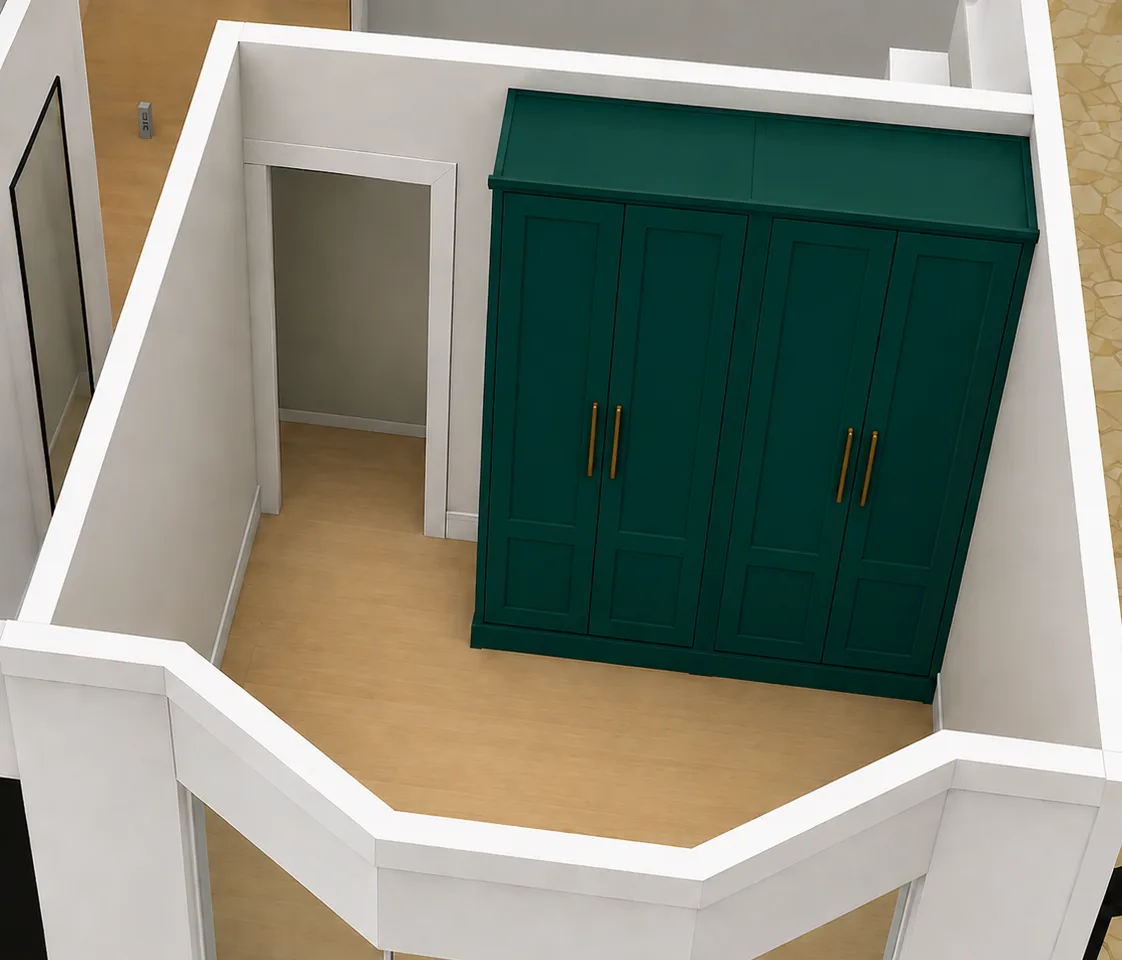
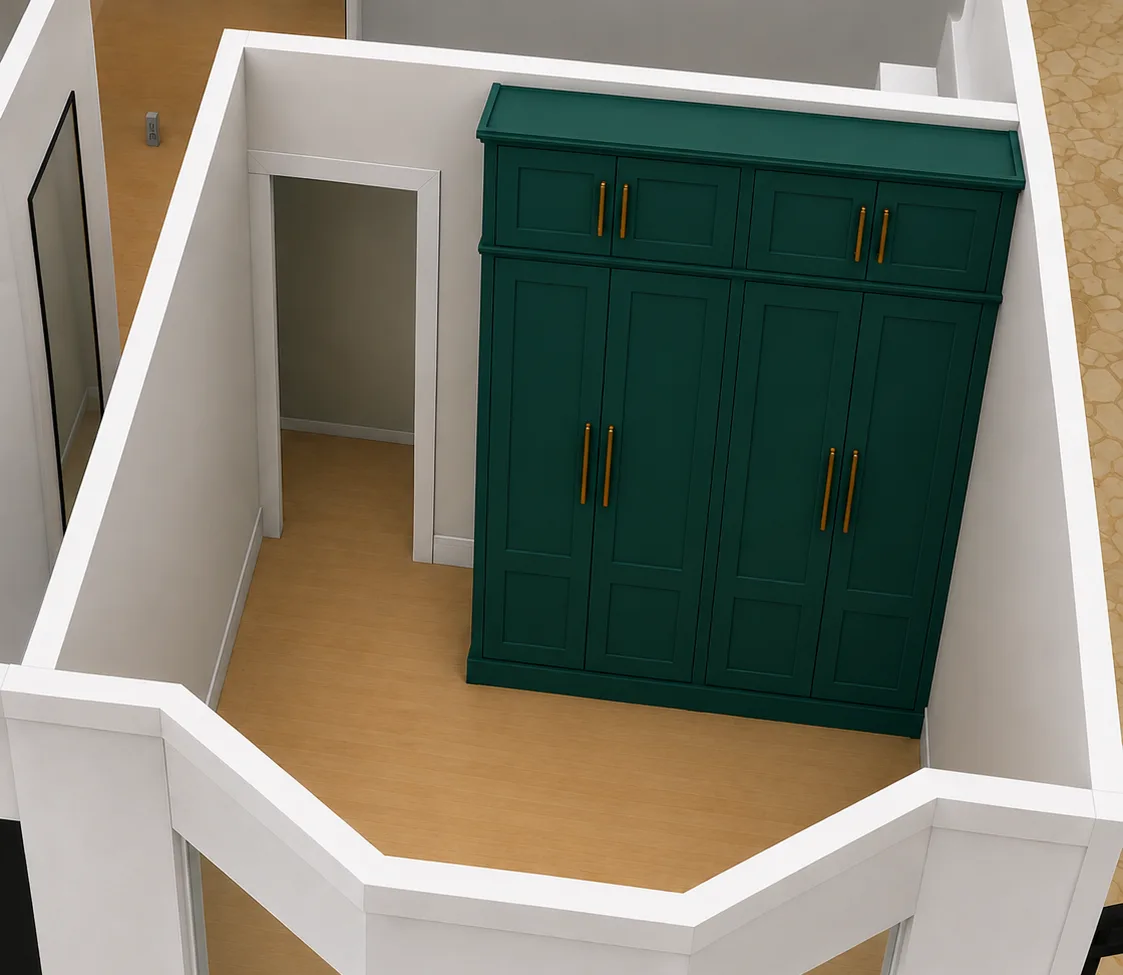
Publish site from source repo

diff --git a/home/jobs/2026/07/29/build-fitted-wardrobes-in-two-bedrooms/index.html b/home/jobs/2026/07/29/build-fitted-wardrobes-in-two-bedrooms/index.html
@@ -1,4 +1,4 @@
-<!DOCTYPE html><html lang="en"> <head><meta charset="utf-8"><link rel="icon" type="image/svg+xml" href="/favicon.svg"><link rel="icon" type="image/png" sizes="96x96" href="/favicon-96x96.png"><link rel="icon" href="/favicon.ico"><link rel="apple-touch-icon" sizes="180x180" href="/apple-touch-icon.png"><link rel="manifest" href="/site.webmanifest"><meta name="viewport" content="width=device-width, initial-scale=1"><meta name="generator" content="Astro v6.1.5"><meta name="description" content="Make and install two internally lit fitted wardrobes with matt solid-colour shaker doors, one on the ground floor and one on the first floor, to the schematics."><meta name="author" content="Rahul Goma Phulore"><meta name="robots" content="noindex,nofollow"><meta name="theme-color" content="#fdf6e3"><link rel="canonical" href="https://rahul.london/home/jobs/2026/07/29/build-fitted-wardrobes-in-two-bedrooms/"><link rel="alternate" type="application/rss+xml" title="rahul.london RSS" href="https://rahul.london/rss.xml"><meta property="og:site_name" content="rahul.london"><meta property="og:locale" content="en_GB"><meta property="og:type" content="website"><meta property="og:title" content="Build fitted wardrobes in two bedrooms — Home jobs"><meta property="og:description" content="Make and install two internally lit fitted wardrobes with matt solid-colour shaker doors, one on the ground floor and one on the first floor, to the schematics."><meta property="og:url" content="https://rahul.london/home/jobs/2026/07/29/build-fitted-wardrobes-in-two-bedrooms/"><meta name="twitter:card" content="summary"><meta name="twitter:title" content="Build fitted wardrobes in two bedrooms — Home jobs"><meta name="twitter:description" content="Make and install two internally lit fitted wardrobes with matt solid-colour shaker doors, one on the ground floor and one on the first floor, to the schematics."><meta name="twitter:creator" content="@missingfaktor"><link rel="preconnect" href="https://fonts.googleapis.com"><link rel="preconnect" href="https://fonts.gstatic.com" crossorigin><link rel="stylesheet" href="https://fonts.googleapis.com/css2?family=Spline+Sans:wght@400;500;600;700&display=swap"><title>Build fitted wardrobes in two bedrooms — Home jobs</title><!-- Apply saved theme before first paint to avoid flash --><script>
+<!DOCTYPE html><html lang="en"> <head><meta charset="utf-8"><link rel="icon" type="image/svg+xml" href="/favicon.svg"><link rel="icon" type="image/png" sizes="96x96" href="/favicon-96x96.png"><link rel="icon" href="/favicon.ico"><link rel="apple-touch-icon" sizes="180x180" href="/apple-touch-icon.png"><link rel="manifest" href="/site.webmanifest"><meta name="viewport" content="width=device-width, initial-scale=1"><meta name="generator" content="Astro v6.1.5"><meta name="description" content="Make and install two internally lit fitted wardrobes with matt spray-painted shaker doors, one on the ground floor with a separate run of top boxes and one on the first floor, to the schematics."><meta name="author" content="Rahul Goma Phulore"><meta name="robots" content="noindex,nofollow"><meta name="theme-color" content="#fdf6e3"><link rel="canonical" href="https://rahul.london/home/jobs/2026/07/29/build-fitted-wardrobes-in-two-bedrooms/"><link rel="alternate" type="application/rss+xml" title="rahul.london RSS" href="https://rahul.london/rss.xml"><meta property="og:site_name" content="rahul.london"><meta property="og:locale" content="en_GB"><meta property="og:type" content="website"><meta property="og:title" content="Build fitted wardrobes in two bedrooms — Home jobs"><meta property="og:description" content="Make and install two internally lit fitted wardrobes with matt spray-painted shaker doors, one on the ground floor with a separate run of top boxes and one on the first floor, to the schematics."><meta property="og:url" content="https://rahul.london/home/jobs/2026/07/29/build-fitted-wardrobes-in-two-bedrooms/"><meta name="twitter:card" content="summary"><meta name="twitter:title" content="Build fitted wardrobes in two bedrooms — Home jobs"><meta name="twitter:description" content="Make and install two internally lit fitted wardrobes with matt spray-painted shaker doors, one on the ground floor with a separate run of top boxes and one on the first floor, to the schematics."><meta name="twitter:creator" content="@missingfaktor"><link rel="preconnect" href="https://fonts.googleapis.com"><link rel="preconnect" href="https://fonts.gstatic.com" crossorigin><link rel="stylesheet" href="https://fonts.googleapis.com/css2?family=Spline+Sans:wght@400;500;600;700&display=swap"><title>Build fitted wardrobes in two bedrooms — Home jobs</title><!-- Apply saved theme before first paint to avoid flash --><script>
       (function () {
         var cookieMatch = document.cookie.match(/(?:^|; )theme=([^;]+)/);
         var stored =
@@ -15,7 +15,7 @@ Home jobs
 All jobs
 </a> </nav> </header>  <a class="job-back" href="/home/jobs/">← All jobs</a> <article class="job-detail"> <header class="job-detail__header"> <div class="job-detail__eyebrow"> <span class="job-status job-status--open"> <span class="job-status__dot" aria-hidden="true"></span> Open </span> <span class="job-priority job-priority--medium"> Medium priority
 </span> </div> <h1>Build fitted wardrobes in two bedrooms</h1> <p class="job-detail__posted">
-Posted on <time datetime="2026-07-29"> 29 July 2026 </time> </p> </header> <div class="job-description"> <p>Two fitted wardrobes, on the walls shown in the model views. The schematics are the reference for carcass sizes, bay widths and internal layout.</p><div class="job-carousel" data-job-carousel aria-label="Model views of both wardrobes"> <div class="job-carousel__viewport" id="build-fitted-wardrobes-in-two-bedrooms-photos-2" tabindex="0"> <div class="job-carousel__track"> <figure class="job-carousel__slide" role="group" aria-roledescription="slide" aria-label="1 of 2"> <a href="/images/home/jobs/build-fitted-wardrobes-in-two-bedrooms/ground-floor-model.webp" target="_blank" rel="noopener"> <img src="/images/home/jobs/build-fitted-wardrobes-in-two-bedrooms/ground-floor-model.webp" alt="Cutaway render of the ground-floor bedroom seen from above. A dark green wardrobe stands against the far wall beside a doorway, with four tall shaker doors in two pairs and the top of a separate upper run visible above them. Each tall door has a tall upper panel over a short lower panel, with slim brass bar handles at the meeting stiles. A bay window occupies the opposite side of the room." loading="lazy"> </a> <figcaption> <span>Ground-floor wardrobe in position, running along the wall beside the doorway with the bay window opposite.</span> <strong>Reference</strong> </figcaption> </figure><figure class="job-carousel__slide" role="group" aria-roledescription="slide" aria-label="2 of 2"> <a href="/images/home/jobs/build-fitted-wardrobes-in-two-bedrooms/first-floor-model.webp" target="_blank" rel="noopener"> <img src="/images/home/jobs/build-fitted-wardrobes-in-two-bedrooms/first-floor-model.webp" alt="Cutaway render of the first-floor second bedroom seen from above. A deep red wardrobe runs the full width of the far wall in three bays, with two tall shaker doors to each bay and the top of a separate upper run visible above them. Each tall door has one unbroken full-height recessed panel. On the right-hand bay that panel is a mirror in both doors." loading="lazy"> </a> <figcaption> <span>First-floor wardrobe in position, three bays wide with the mirrored doors on the third bay.</span> <strong>Reference</strong> </figcaption> </figure> </div> </div>  <p class="job-carousel__count" aria-live="polite"> <span data-carousel-current>1</span> / 2 </p> <div class="job-carousel__controls"> <button type="button" data-carousel-previous aria-controls="build-fitted-wardrobes-in-two-bedrooms-photos-2" aria-label="Previous photo"> <svg viewBox="0 0 24 24" aria-hidden="true"> <path d="m15 18-6-6 6-6"></path> </svg> </button> <button type="button" data-carousel-next aria-controls="build-fitted-wardrobes-in-two-bedrooms-photos-2" aria-label="Next photo"> <svg viewBox="0 0 24 24" aria-hidden="true"> <path d="m9 18 6-6-6-6"></path> </svg> </button> </div>  </div> <script type="module">for(const r of document.querySelectorAll("[data-job-carousel]")){let l=function(){const t=e[0].offsetLeft;o=e.reduce((a,s,L)=>{const y=Math.abs(e[a].offsetLeft-t-n.scrollLeft);return Math.abs(s.offsetLeft-t-n.scrollLeft)<y?L:a},0),u&&(u.textContent=String(o+1)),e.forEach((a,s)=>{s===o?a.setAttribute("aria-current","true"):a.removeAttribute("aria-current")})},c=function(t){const a=(t+e.length)%e.length;n.scrollTo({left:e[a].offsetLeft-e[0].offsetLeft,behavior:"smooth"})};if(r.dataset.carouselReady==="true")continue;r.dataset.carouselReady="true";const n=r.querySelector(".job-carousel__viewport"),e=Array.from(r.querySelectorAll(".job-carousel__slide")),u=r.querySelector("[data-carousel-current]"),i=r.querySelector("[data-carousel-previous]"),d=r.querySelector("[data-carousel-next]");if(!n||e.length<2)continue;let o=0,f=0;n.addEventListener("scroll",()=>{cancelAnimationFrame(f),f=requestAnimationFrame(l)}),n.addEventListener("keydown",t=>{t.key==="ArrowLeft"&&(t.preventDefault(),c(o-1)),t.key==="ArrowRight"&&(t.preventDefault(),c(o+1))}),i?.addEventListener("click",()=>c(o-1)),d?.addEventListener("click",()=>c(o+1)),l()}</script><div class="job-carousel" data-job-carousel aria-label="Internal layout schematics"> <div class="job-carousel__viewport" id="build-fitted-wardrobes-in-two-bedrooms-photos-3" tabindex="0"> <div class="job-carousel__track"> <figure class="job-carousel__slide" role="group" aria-roledescription="slide" aria-label="1 of 2"> <a href="/images/home/jobs/build-fitted-wardrobes-in-two-bedrooms/ground-floor-schematic.webp" target="_blank" rel="noopener"> <img src="/images/home/jobs/build-fitted-wardrobes-in-two-bedrooms/ground-floor-schematic.webp" alt="Elevation schematic of the ground-floor wardrobe, 200 cm wide by 250 cm high by 65 cm deep, split into two equal 100 cm bays. A shelf compartment runs across the top of both bays. Below it the left bay is hanging space the full depth of the run and the right bay is a run of four shelves. Two drawers and then a deep open storage compartment sit at the foot of each bay." loading="lazy"> </a> <figcaption> <span>Ground-floor wardrobe: two equal bays, hanging on the left, shelves on the right, with the deep storage compartment at the very bottom.</span> <strong>Reference</strong> </figcaption> </figure><figure class="job-carousel__slide" role="group" aria-roledescription="slide" aria-label="2 of 2"> <a href="/images/home/jobs/build-fitted-wardrobes-in-two-bedrooms/first-floor-schematic.webp" target="_blank" rel="noopener"> <img src="/images/home/jobs/build-fitted-wardrobes-in-two-bedrooms/first-floor-schematic.webp" alt="Elevation schematic of the first-floor wardrobe, 260 cm wide by 207 cm high by 65 cm deep, split into three equal 86.7 cm bays. The outer two bays have two shelf compartments at the top over a run of four shelves. The middle bay has one shelf compartment over a short hanging rail. All three bays finish with an open storage compartment and then two drawers at the very bottom." loading="lazy"> </a> <figcaption> <span>First-floor wardrobe: three equal bays, short hanging in the middle bay, shelves either side, with the drawers at the very bottom.</span> <strong>Reference</strong> </figcaption> </figure> </div> </div>  <p class="job-carousel__count" aria-live="polite"> <span data-carousel-current>1</span> / 2 </p> <div class="job-carousel__controls"> <button type="button" data-carousel-previous aria-controls="build-fitted-wardrobes-in-two-bedrooms-photos-3" aria-label="Previous photo"> <svg viewBox="0 0 24 24" aria-hidden="true"> <path d="m15 18-6-6 6-6"></path> </svg> </button> <button type="button" data-carousel-next aria-controls="build-fitted-wardrobes-in-two-bedrooms-photos-3" aria-label="Next photo"> <svg viewBox="0 0 24 24" aria-hidden="true"> <path d="m9 18 6-6-6-6"></path> </svg> </button> </div>  </div> <p>Every compartment sits behind doors. <strong>No niche or shelf is open to the room.</strong> Where a schematic says “open storage”, read it as a shelf compartment: the drawing implies a distinction that is not there.</p><div class="job-description__list"> <p>What the schematics do not show:</p> <ul><li>Compartment heights <strong>add up to the external carcass height</strong>. Carcass, shelf, plinth and top-rail thicknesses come <strong>out of</strong> those figures, not on top of them.</li><li>The first-floor bays are <strong>not identical inside</strong>. The middle bay drops the second shelf compartment so its hanging space runs higher. Everything below that lines up across all three.</li></ul> </div><div class="job-description__list"> <p><strong>Both wardrobes are to be lit inside</strong>, with the wiring route planned before the carcasses are built.</p> <ul><li><strong>Warm white LED</strong> strip down <strong>both side panels of every bay</strong>, out of direct view.</li><li><strong>Door-activated switching</strong>, so a bay lights when its door opens.</li><li>Drivers and cabling <strong>concealed in the carcass</strong>. No visible trunking.</li><li>A concealed <strong>fused spur</strong>, not a trailing plug lead.</li></ul> </div><div class="job-description__list"> <p>Materials:</p> <ul><li><strong>MDF for every door and drawer front</strong>, not MFC.</li><li><strong>MFC</strong> for carcasses, shelves and drawer boxes, with <strong>matching ABS edging</strong> on visible edges.</li><li><strong>MDF</strong> also for plinths, back panels and scribe fillets.</li><li><strong>Matt throughout.</strong> No gloss, no woodgrain, no patterned decor.</li><li><strong>Fixed shelves</strong>, built into the carcass. <strong>Nothing adjustable.</strong></li></ul> </div><p>The fronts are <strong>painted and spray-finished</strong> on <strong>22 mm</strong> MDF, hard-wearing enough for daily handling. <strong>No foil or vinyl wrap</strong> — summers here now get hot enough to lift and delaminate it.</p><p>Painted MDF and MFC will not match by being ordered to the same colour name. <strong>Door and carcass samples must be approved side by side</strong> before anything is ordered. End panels, plinth and top rail follow the doors, not the carcass interiors.</p><div class="job-swatches"> <p>One colour per wardrobe, to be settled against a <strong>RAL</strong> or paint-brand reference. Take the colour from these values, not from the renders.</p> <ul> <li> <span class="job-swatches__chip" style="--swatch: #014137" aria-hidden="true"></span> <span class="job-swatches__label"> <strong>Buckingham Green</strong> <span class="job-swatches__hex">#014137</span> <span class="job-swatches__note">Ground-floor wardrobe.</span> </span> </li><li> <span class="job-swatches__chip" style="--swatch: #733635" aria-hidden="true"></span> <span class="job-swatches__label"> <strong>Garnet red</strong> <span class="job-swatches__hex">#733635</span> <span class="job-swatches__note">First-floor wardrobe.</span> </span> </li> </ul> </div><div class="job-description__list"> <p>Style is simple Scandinavian: quiet, solid and unfussy.</p> <ul><li><strong>Shaker doors and drawer fronts throughout</strong>: a plain frame around a recessed flat panel. <strong>No flat slab fronts, no flush trimless detailing.</strong></li><li>The tall doors are panelled differently on each wardrobe. <strong>Ground floor: two panels</strong>, a tall one over a short one. <strong>First floor: one full-height panel, with no cross rail.</strong></li><li><strong>Slim plain handles</strong>, bar or tubular, one finish throughout.</li><li>Hinged doors, <strong>two to a bay</strong>, with separate shorter doors over the upper compartments.</li><li><strong>Soft-close hinges and drawer runners</strong> throughout.</li><li><strong>Soft-push opening on every door and every drawer</strong>, on both wardrobes. Handles are fitted <strong>as well as</strong> the push mechanism, not in place of it.</li><li>Scribed to walls, floor and ceiling. Assume both rooms are out of true.</li></ul> </div><p>On the first-floor wardrobe, <strong>both doors of bay B3</strong> — the right-hand bay as the room sees it — are mirrored: <strong>one unbroken full-height mirror per door</strong>, in place of the flat panel. Safety-backed, held by the shaker frame rather than fixed on afterwards.</p> </div> <section class="job-section job-materials" aria-labelledby="materials-heading"> <h2 id="materials-heading">Materials</h2> <ul> <li><strong>22 mm</strong> MDF for every shaker door and drawer front</li><li>Hard-wearing spray finish in the chosen colour</li><li>MFC panels for the ground-floor carcasses in the nearest <strong>matt Buckingham Green</strong> decor</li><li>MFC panels for the first-floor carcasses in the nearest <strong>matt garnet red</strong> decor</li><li>Matching ABS edging</li><li>MDF for plinths, back panels and scribe fillets</li><li>Hanging rails and end supports</li><li>Soft-close hinges and drawer runners</li><li>Soft-push latches for every door and drawer</li><li>Safety-backed mirror panels, <strong>one full-height panel per door</strong>, for both doors of first-floor bay <strong>B3</strong></li><li>Slim bar handles in a single finish</li><li>Warm white LED strips, drivers and door switches</li> </ul> </section>  </article>  </div>  </main> </div>  <script type="module">const c=document.getElementById("theme-toggle"),t=document.getElementById("theme-icon"),m=`
+Posted on <time datetime="2026-07-29"> 29 July 2026 </time> </p> </header> <div class="job-description"> <p>Two fitted wardrobes, on the walls shown in the model views. The schematics are the reference for carcass sizes, bay widths and internal layout.</p><div class="job-carousel" data-job-carousel aria-label="Model views of both wardrobes"> <div class="job-carousel__viewport" id="build-fitted-wardrobes-in-two-bedrooms-photos-2" tabindex="0"> <div class="job-carousel__track"> <figure class="job-carousel__slide" role="group" aria-roledescription="slide" aria-label="1 of 2"> <a href="/images/home/jobs/build-fitted-wardrobes-in-two-bedrooms/ground-floor-model.webp" target="_blank" rel="noopener"> <img src="/images/home/jobs/build-fitted-wardrobes-in-two-bedrooms/ground-floor-model.webp" alt="Cutaway render of the ground-floor bedroom seen from above. A dark green wardrobe stands against the far wall beside a doorway. Four tall shaker doors in two pairs fill the main run, and a shorter band of four shaker doors sits above them, divided from the run below by a horizontal rail and finished with a projecting top. Each tall door has a tall upper panel over a short lower panel; each short door has a single panel. Slim brass bar handles sit at the meeting stiles throughout. A bay window occupies the opposite side of the room." loading="lazy"> </a> <figcaption> <span>Ground-floor wardrobe in position: a separate run of top boxes with its own doors sits above the main run, along the wall beside the doorway.</span> <strong>Reference</strong> </figcaption> </figure><figure class="job-carousel__slide" role="group" aria-roledescription="slide" aria-label="2 of 2"> <a href="/images/home/jobs/build-fitted-wardrobes-in-two-bedrooms/first-floor-model.webp" target="_blank" rel="noopener"> <img src="/images/home/jobs/build-fitted-wardrobes-in-two-bedrooms/first-floor-model.webp" alt="Cutaway render of the first-floor second bedroom seen from above. A deep red wardrobe runs the full width of the far wall in three bays, with two tall shaker doors to each bay running full height under a projecting top. Each tall door has one unbroken full-height recessed panel. On the right-hand bay that panel is a mirror in both doors." loading="lazy"> </a> <figcaption> <span>First-floor wardrobe in position, three bays wide with the mirrored doors on the third bay.</span> <strong>Reference</strong> </figcaption> </figure> </div> </div>  <p class="job-carousel__count" aria-live="polite"> <span data-carousel-current>1</span> / 2 </p> <div class="job-carousel__controls"> <button type="button" data-carousel-previous aria-controls="build-fitted-wardrobes-in-two-bedrooms-photos-2" aria-label="Previous photo"> <svg viewBox="0 0 24 24" aria-hidden="true"> <path d="m15 18-6-6 6-6"></path> </svg> </button> <button type="button" data-carousel-next aria-controls="build-fitted-wardrobes-in-two-bedrooms-photos-2" aria-label="Next photo"> <svg viewBox="0 0 24 24" aria-hidden="true"> <path d="m9 18 6-6-6-6"></path> </svg> </button> </div>  </div> <script type="module">for(const r of document.querySelectorAll("[data-job-carousel]")){let l=function(){const t=e[0].offsetLeft;o=e.reduce((a,s,L)=>{const y=Math.abs(e[a].offsetLeft-t-n.scrollLeft);return Math.abs(s.offsetLeft-t-n.scrollLeft)<y?L:a},0),u&&(u.textContent=String(o+1)),e.forEach((a,s)=>{s===o?a.setAttribute("aria-current","true"):a.removeAttribute("aria-current")})},c=function(t){const a=(t+e.length)%e.length;n.scrollTo({left:e[a].offsetLeft-e[0].offsetLeft,behavior:"smooth"})};if(r.dataset.carouselReady==="true")continue;r.dataset.carouselReady="true";const n=r.querySelector(".job-carousel__viewport"),e=Array.from(r.querySelectorAll(".job-carousel__slide")),u=r.querySelector("[data-carousel-current]"),i=r.querySelector("[data-carousel-previous]"),d=r.querySelector("[data-carousel-next]");if(!n||e.length<2)continue;let o=0,f=0;n.addEventListener("scroll",()=>{cancelAnimationFrame(f),f=requestAnimationFrame(l)}),n.addEventListener("keydown",t=>{t.key==="ArrowLeft"&&(t.preventDefault(),c(o-1)),t.key==="ArrowRight"&&(t.preventDefault(),c(o+1))}),i?.addEventListener("click",()=>c(o-1)),d?.addEventListener("click",()=>c(o+1)),l()}</script><div class="job-carousel" data-job-carousel aria-label="Internal layout schematics"> <div class="job-carousel__viewport" id="build-fitted-wardrobes-in-two-bedrooms-photos-3" tabindex="0"> <div class="job-carousel__track"> <figure class="job-carousel__slide" role="group" aria-roledescription="slide" aria-label="1 of 2"> <a href="/images/home/jobs/build-fitted-wardrobes-in-two-bedrooms/ground-floor-schematic.webp" target="_blank" rel="noopener"> <img src="/images/home/jobs/build-fitted-wardrobes-in-two-bedrooms/ground-floor-schematic.webp" alt="Elevation schematic of the ground-floor wardrobe, 200 cm wide by 250 cm high by 65 cm deep, split into two equal 100 cm bays. A 50 cm compartment runs across the top of both bays. Below it, over 116 cm, the left bay is hanging space and the right bay is a run of four shelves. Two 22 cm drawers and then a 40 cm open storage compartment sit at the foot of each bay." loading="lazy"> </a> <figcaption> <span>Ground-floor wardrobe: two equal bays, hanging on the left, shelves on the right, with the storage compartment at the very bottom and the 50 cm top band forming the top boxes.</span> <strong>Reference</strong> </figcaption> </figure><figure class="job-carousel__slide" role="group" aria-roledescription="slide" aria-label="2 of 2"> <a href="/images/home/jobs/build-fitted-wardrobes-in-two-bedrooms/first-floor-schematic.webp" target="_blank" rel="noopener"> <img src="/images/home/jobs/build-fitted-wardrobes-in-two-bedrooms/first-floor-schematic.webp" alt="Elevation schematic of the first-floor wardrobe, 260 cm wide by 207 cm high by 65 cm deep, split into three equal 86.7 cm bays. The outer two bays have two shelf compartments at the top over a run of four shelves. The middle bay has one shelf compartment over a short hanging rail. All three bays finish with an open storage compartment and then two drawers at the very bottom." loading="lazy"> </a> <figcaption> <span>First-floor wardrobe: three equal bays, short hanging in the middle bay, shelves either side, with the drawers at the very bottom.</span> <strong>Reference</strong> </figcaption> </figure> </div> </div>  <p class="job-carousel__count" aria-live="polite"> <span data-carousel-current>1</span> / 2 </p> <div class="job-carousel__controls"> <button type="button" data-carousel-previous aria-controls="build-fitted-wardrobes-in-two-bedrooms-photos-3" aria-label="Previous photo"> <svg viewBox="0 0 24 24" aria-hidden="true"> <path d="m15 18-6-6 6-6"></path> </svg> </button> <button type="button" data-carousel-next aria-controls="build-fitted-wardrobes-in-two-bedrooms-photos-3" aria-label="Next photo"> <svg viewBox="0 0 24 24" aria-hidden="true"> <path d="m9 18 6-6-6-6"></path> </svg> </button> </div>  </div> <p>On the ground floor the top <strong>50 cm</strong> is a separate run of <strong>top boxes</strong>: its own carcasses, built and set on top of a <strong>200 cm</strong> main run, not one tall carcass divided by a shelf. Each bay's top box takes <strong>its own pair of short doors</strong>. It carries the same <strong>65 cm</strong> depth as the run below and sits flush at the front, with a rail between the two runs.</p><p>The first-floor wardrobe has no top boxes. Its doors run <strong>full height</strong> over the whole <strong>207 cm</strong>, with the upper shelf compartments behind them.</p><p>Every compartment sits behind doors. <strong>No niche or shelf is open to the room.</strong></p><div class="job-description__list"> <p>Two labels on the schematics are misleading and do not override the written scope:</p> <ul><li>“Open storage” is a <strong>shelf compartment</strong> behind doors, not an open niche.</li><li>“Adjustable shelves” are <strong>fixed</strong>, built into the carcass. Nothing in either wardrobe is adjustable.</li></ul> </div><div class="job-description__list"> <p>What the schematics do not show:</p> <ul><li>Compartment heights <strong>add up to the external carcass height</strong>. Carcass, shelf, plinth and top-rail thicknesses come <strong>out of</strong> those figures, not on top of them.</li><li>The first-floor bays are <strong>not identical inside</strong>. The middle bay drops the second shelf compartment so its hanging space runs higher. Everything below that lines up across all three.</li></ul> </div><div class="job-description__list"> <p><strong>Both wardrobes are to be lit inside</strong>, with the wiring route planned before the carcasses are built.</p> <ul><li><strong>Warm white LED</strong> strip down <strong>both side panels of every bay</strong>, out of direct view. <strong>The ground-floor top boxes are lit as well</strong>, each on its own strip.</li><li><strong>Door-activated switching</strong>, so a bay lights when its door opens and a top box lights on its own doors.</li><li>Drivers and cabling <strong>concealed in the carcass</strong>. No visible trunking.</li><li>A concealed <strong>fused spur</strong>, not a trailing plug lead.</li></ul> </div><div class="job-description__list"> <p>Materials:</p> <ul><li><strong>MDF for every door and drawer front</strong>, not MFC.</li><li><strong>MFC</strong> for carcasses, shelves and drawer boxes, with <strong>matching ABS edging</strong> on visible edges.</li><li><strong>MDF</strong> also for plinths, back panels and scribe fillets.</li><li><strong>Matt throughout.</strong> No gloss, no woodgrain, no patterned decor.</li><li><strong>Fixed shelves</strong>, built into the carcass. <strong>Nothing adjustable.</strong></li></ul> </div><p>Every door and drawer front is <strong>sprayed paint on 22 mm MDF</strong>, hard-wearing enough for daily handling. <strong>Wrapped fronts are not acceptable</strong>: no vinyl wrap, foil wrap or thermofoil, and no laminated or melamine-faced door, whatever it is called in the quotation. This is a hard constraint, not a preference to be priced against — summers here now get hot enough to lift and delaminate a wrapped front.</p><p>Painted MDF and MFC will not match by being ordered to the same colour name. <strong>Door and carcass samples must be approved side by side</strong> before anything is ordered. End panels, plinth and top rail follow the doors, not the carcass interiors.</p><div class="job-swatches"> <p>One colour per wardrobe, to be settled against a <strong>RAL</strong> or paint-brand reference. Take the colour from these values, not from the renders.</p> <ul> <li> <span class="job-swatches__chip" style="--swatch: #014137" aria-hidden="true"></span> <span class="job-swatches__label"> <strong>Buckingham Green</strong> <span class="job-swatches__hex">#014137</span> <span class="job-swatches__note">Ground-floor wardrobe.</span> </span> </li><li> <span class="job-swatches__chip" style="--swatch: #733635" aria-hidden="true"></span> <span class="job-swatches__label"> <strong>Garnet red</strong> <span class="job-swatches__hex">#733635</span> <span class="job-swatches__note">First-floor wardrobe.</span> </span> </li> </ul> </div><div class="job-description__list"> <p>Style is simple Scandinavian: quiet, solid and unfussy.</p> <ul><li><strong>Shaker doors and drawer fronts throughout</strong>: a plain frame around a recessed flat panel. <strong>No flat slab fronts, no flush trimless detailing.</strong></li><li>The tall doors are panelled differently on each wardrobe. <strong>Ground floor: two panels</strong>, a tall one over a short one. <strong>First floor: one full-height panel, with no cross rail.</strong> The ground-floor top-box doors take <strong>a single panel</strong> each.</li><li><strong>Slim plain handles</strong>, bar or tubular, one finish throughout.</li><li>Hinged doors, <strong>two to a bay</strong>. On the ground floor the top boxes take <strong>their own shorter pair of doors</strong> per bay; on the first floor the doors run full height with no separate upper doors.</li><li><strong>Soft-close hinges and drawer runners</strong> throughout.</li><li><strong>Soft-push opening on every door and every drawer</strong>, on both wardrobes. Handles are fitted <strong>as well as</strong> the push mechanism, not in place of it.</li><li>Scribed to walls, floor and ceiling. Assume both rooms are out of true.</li></ul> </div><p>On the first-floor wardrobe, <strong>both doors of bay B3</strong> — the right-hand bay as the room sees it — are mirrored: <strong>one unbroken full-height mirror per door</strong>, in place of the flat panel. Safety-backed, held by the shaker frame rather than fixed on afterwards.</p> </div> <section class="job-section job-materials" aria-labelledby="materials-heading"> <h2 id="materials-heading">Materials</h2> <ul> <li><strong>22 mm</strong> MDF for every shaker door and drawer front</li><li>Hard-wearing spray finish in the chosen colour</li><li>MFC panels for the ground-floor carcasses in the nearest <strong>matt Buckingham Green</strong> decor</li><li>MFC panels for the first-floor carcasses in the nearest <strong>matt garnet red</strong> decor</li><li>Matching ABS edging</li><li>MDF for plinths, back panels and scribe fillets</li><li>Hanging rails and end supports</li><li>Soft-close hinges and drawer runners</li><li>Soft-push latches for every door and drawer</li><li>Safety-backed mirror panels, <strong>one full-height panel per door</strong>, for both doors of first-floor bay <strong>B3</strong></li><li>Slim bar handles in a single finish</li><li>Warm white LED strips, drivers and door switches</li> </ul> </section>  </article>  </div>  </main> </div>  <script type="module">const c=document.getElementById("theme-toggle"),t=document.getElementById("theme-icon"),m=`
         <circle cx="12" cy="12" r="4" />
         <path d="M12 2.5v2.25M12 19.25v2.25M21.5 12h-2.25M4.75 12H2.5M18.72 5.28l-1.59 1.59M6.87 17.13l-1.59 1.59M18.72 18.72l-1.59-1.59M6.87 6.87L5.28 5.28" />
       `,d=`
